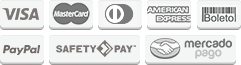
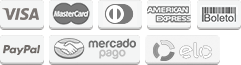
PLAT-6795 Celo Elo no footer

diff --git a/src/subtemplates/consul-footer.html b/src/subtemplates/consul-footer.html
@@ -181,7 +181,7 @@
 
 				<div class="footer-selos formas-pagamento float-left">
 					<span class="txt">Formas de <br /><strong>pagamento</strong></span>
-					<img src="//whirlpool.vteximg.com.br/arquivos/formas-de-pagamento.png" alt="Formas de pagamento" width="234" height="65" class="formas-pagamento show-personal-inline" />
+					<img src="/arquivos/formas-de-pagamento.png?v=1" alt="Formas de pagamento" width="234" height="65" class="formas-pagamento show-personal-inline" />
 					<img src="http://whpnovosrentaveis.vteximg.com.br/arquivos/formas-de-pagamento2.png" alt="Formas de pagamento" width="44" height="31" class="formas-pagamento show-corp-inline" />
 				</div>
 			</div>
